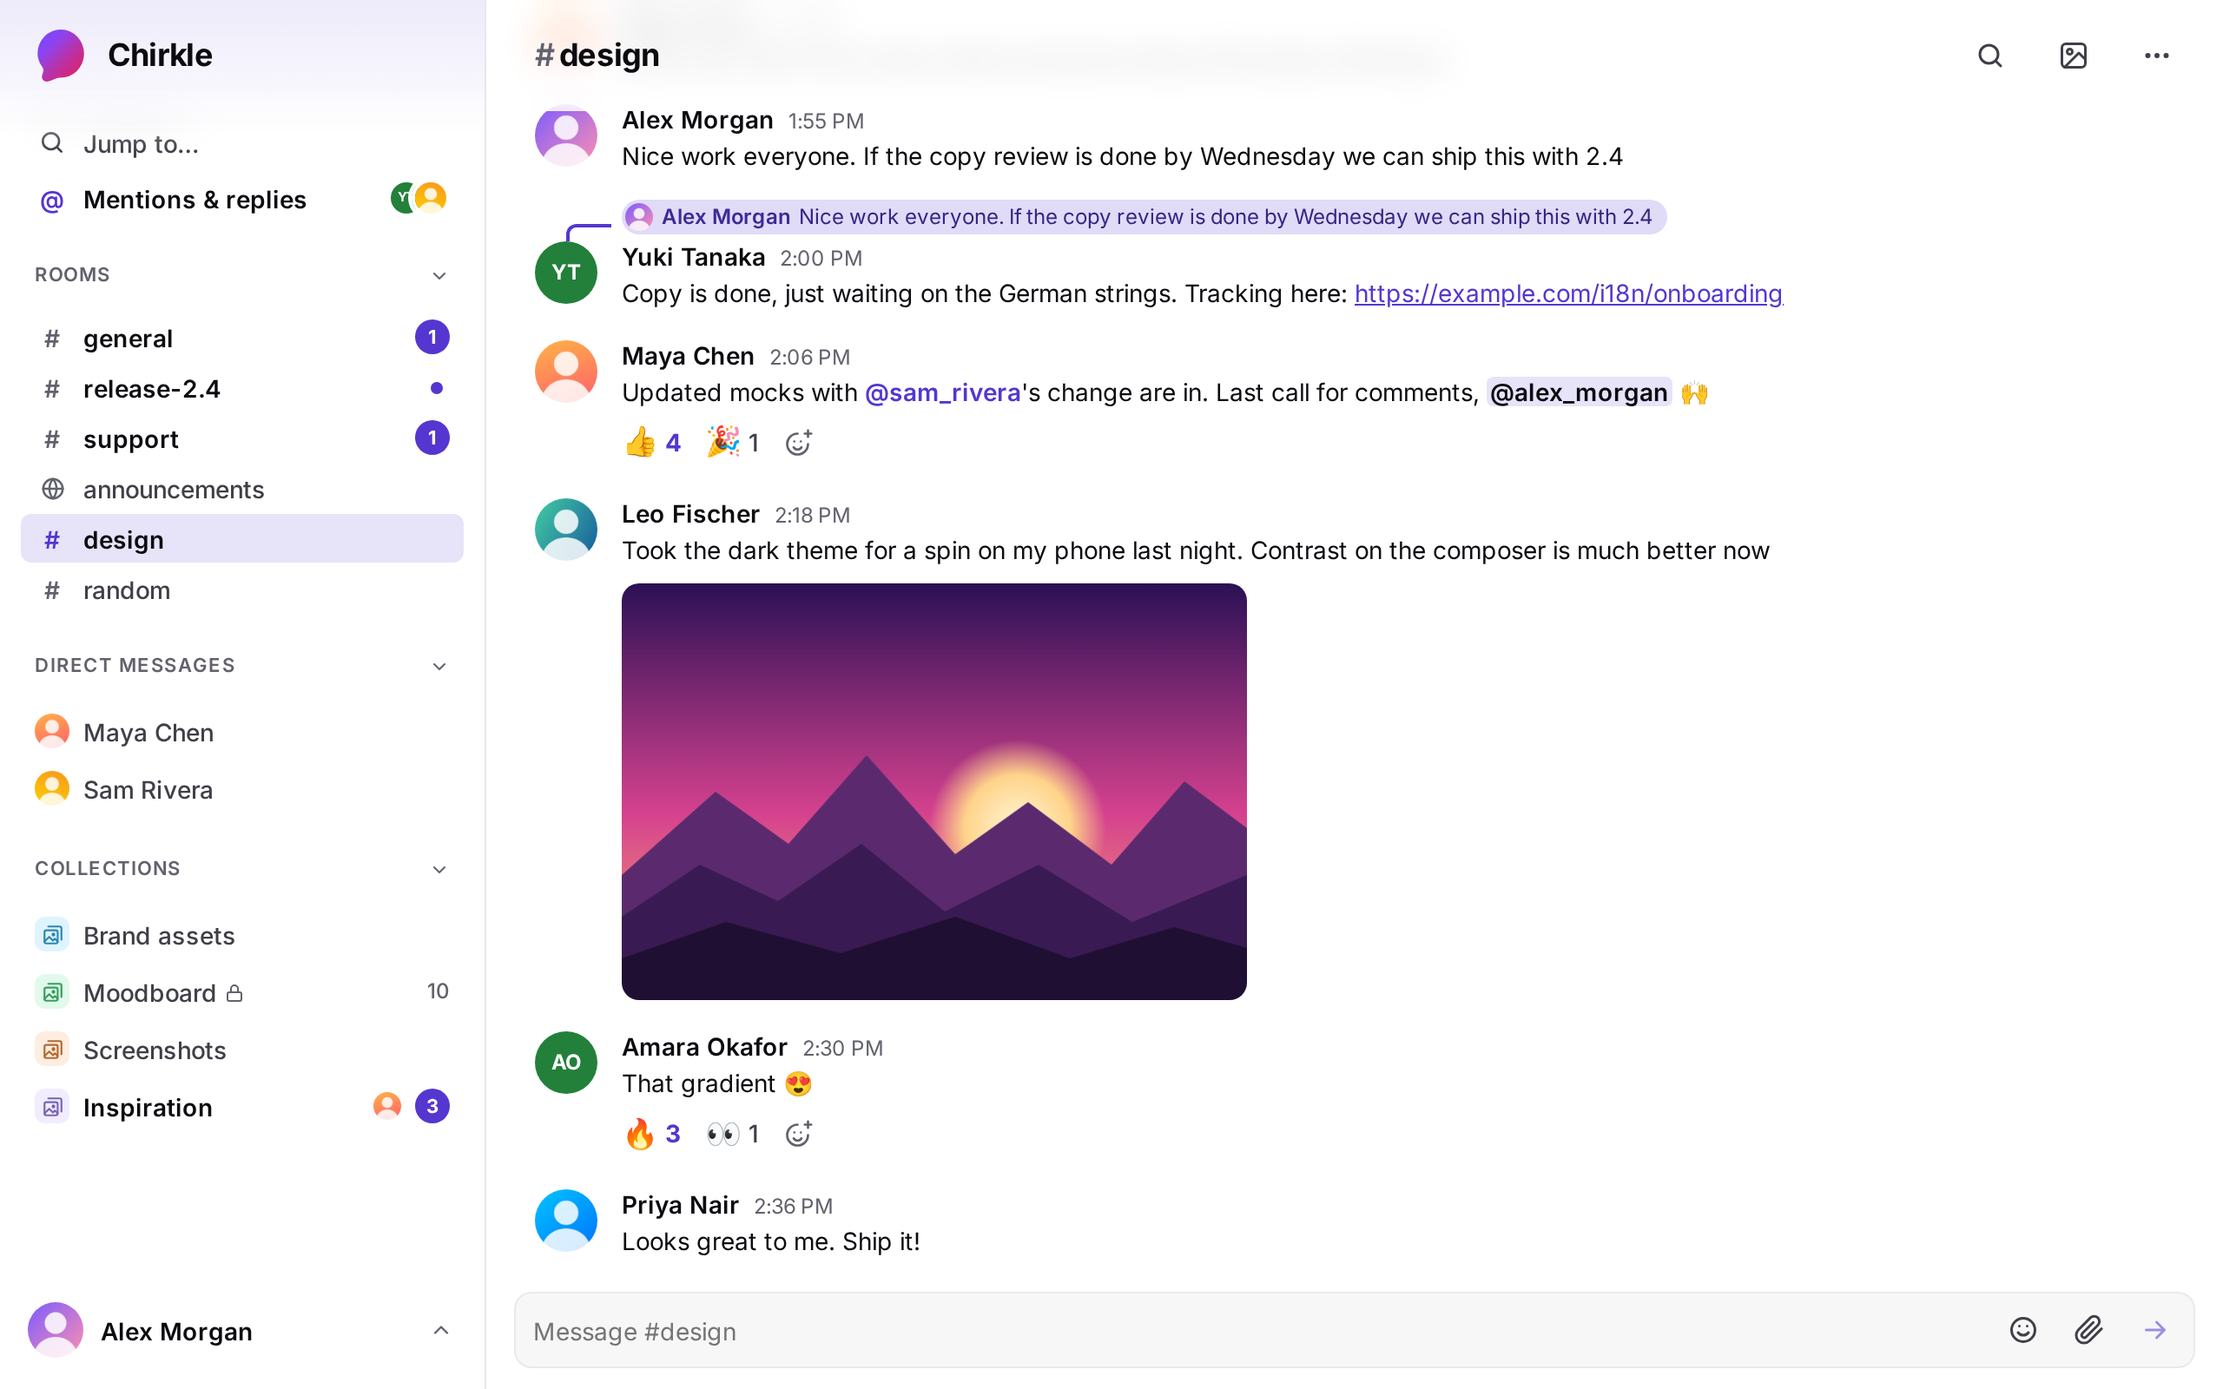
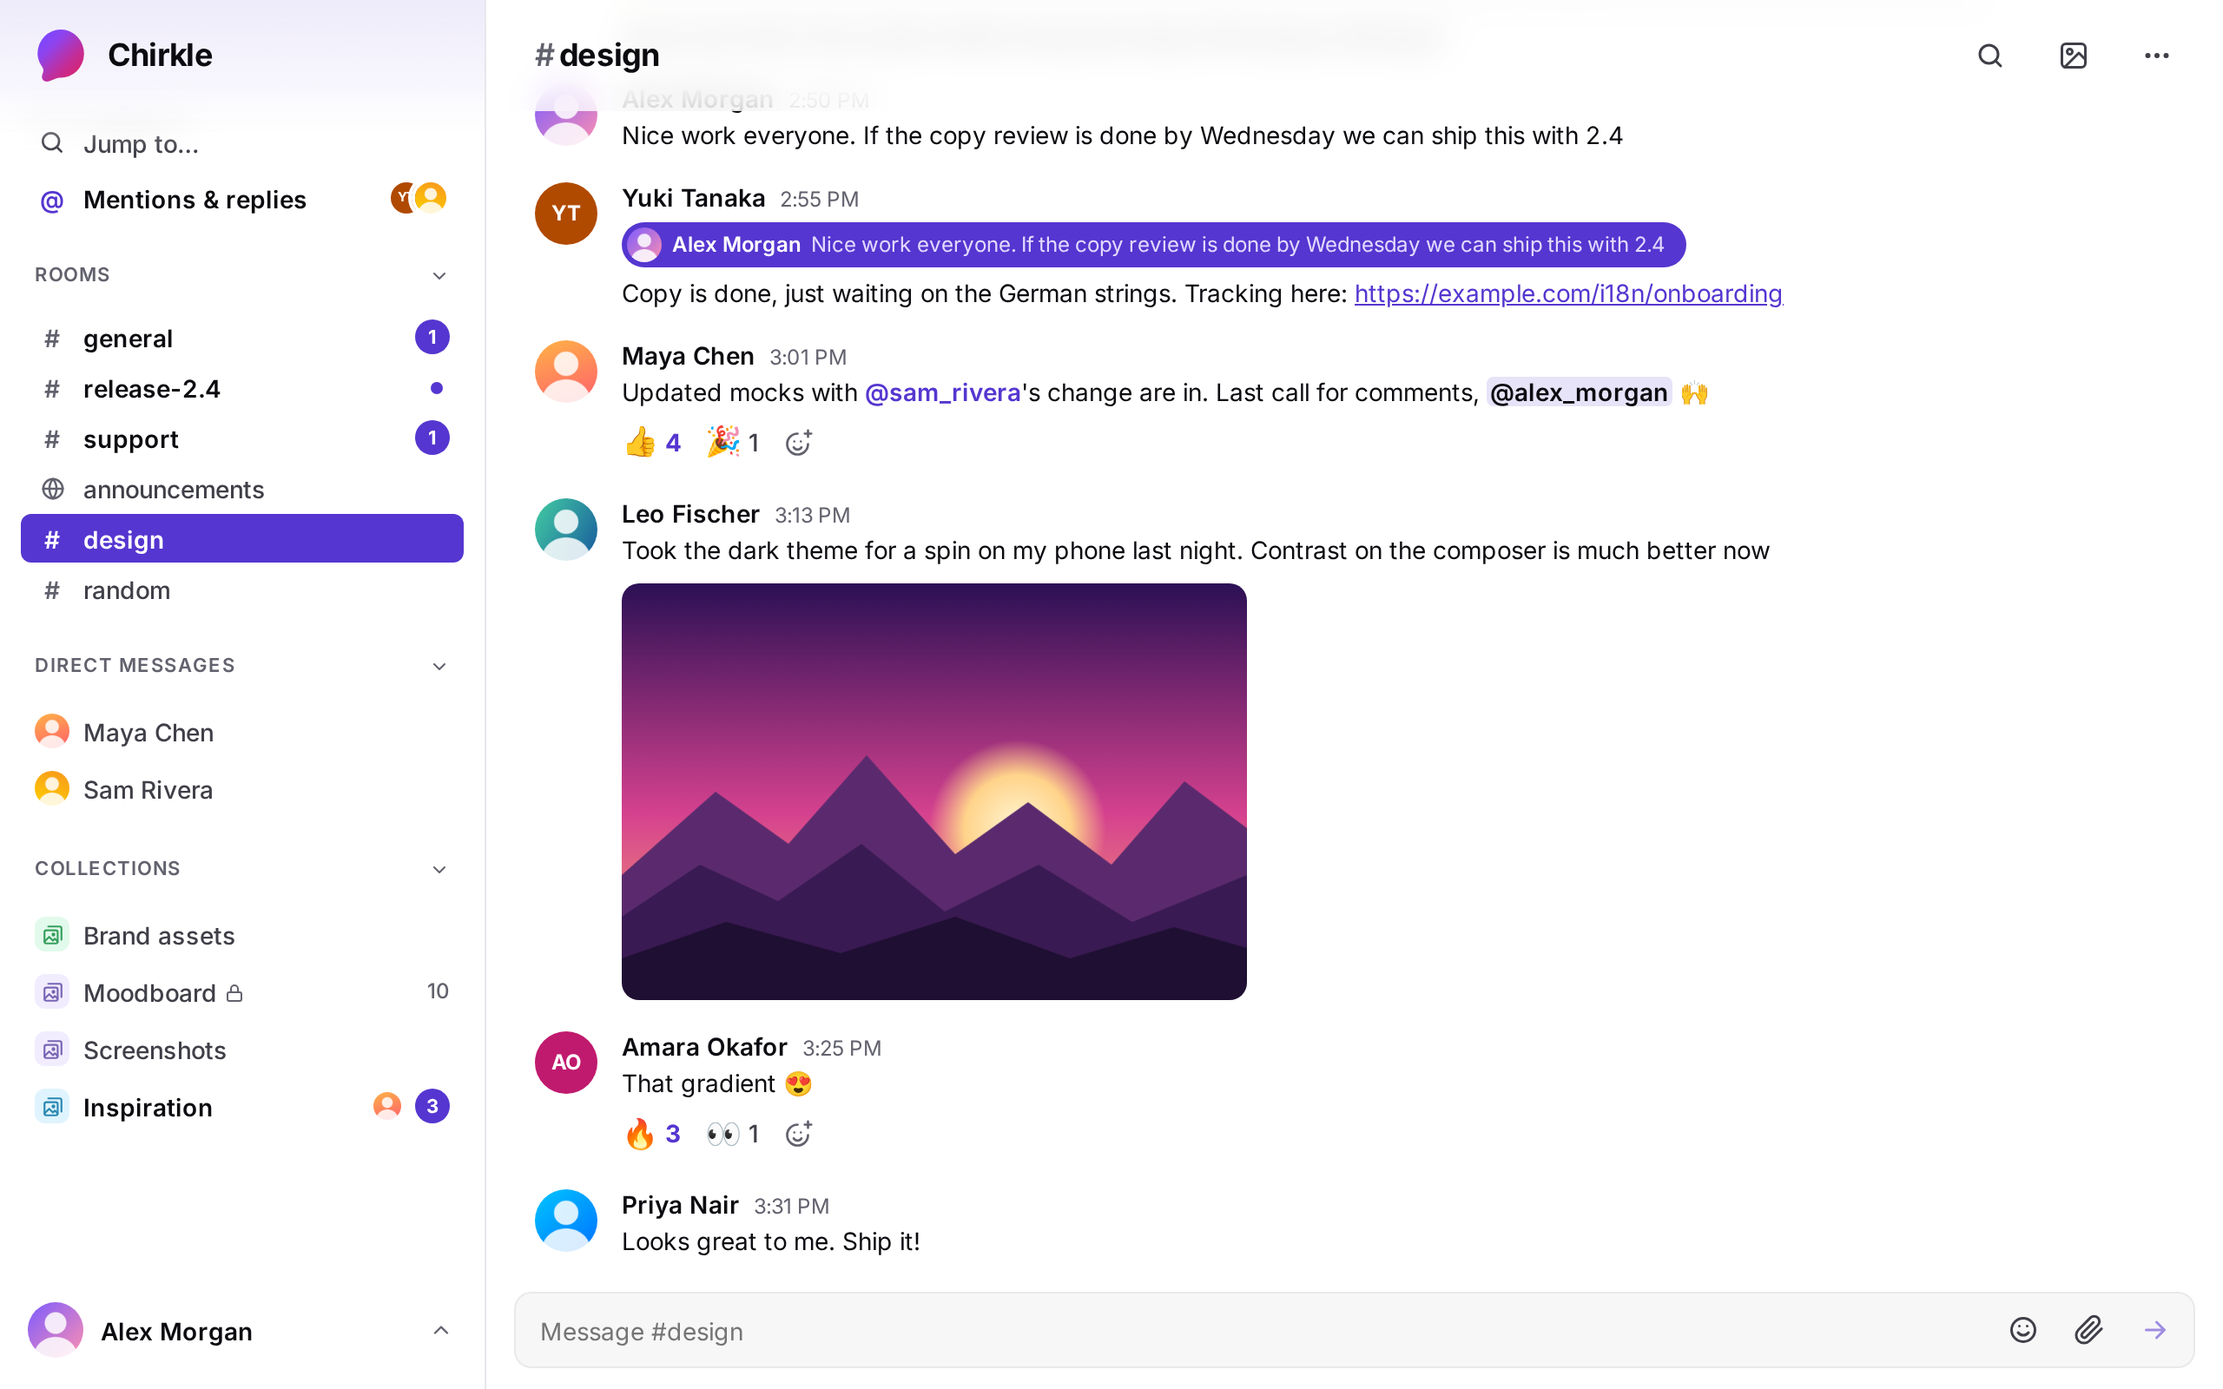
Unclickable telegram usernames, update sidebar and reply colors

diff --git a/web/styles/app/tokens.css b/web/styles/app/tokens.css
@@ -19,6 +19,21 @@
   --accent-2: #c42a7c;
   --grad: linear-gradient(135deg, #6a4bff, #c42a7c);
   --tint: color-mix(in srgb, var(--accent) 14%, transparent);
+  /* The sidebar's rows and the reply pills (room-list.css, replies.css). Light: the hover gray, and selected things
+     (the open room, a quote of your own words) in solid accent with white on it. Dark: wells darker than the page. */
+  --side-bg: var(--surface);
+  --row-hover: var(--hover);
+  --row-on: var(--fill);
+  --row-on-fg: var(--on-fill);
+  --row-on-icon: var(--on-fill);
+  --row-on-badge: var(--on-fill);
+  --row-on-badge-fg: var(--fill);
+  --quote: var(--hover);
+  --quote-hover: color-mix(in srgb, var(--fg) 10%, var(--bg));
+  --quote-mine: var(--fill);
+  --quote-mine-hover: color-mix(in srgb, var(--fill) 88%, #000);
+  --quote-mine-author: var(--on-fill);
+  --quote-mine-text: #e2dbff; /* 5.6:1 on the fill */
   /* Frosted glass (the room view redesign): the header, the scroll button and the message box, over the messages that
      scroll under them. */
   --glass: color-mix(in srgb, var(--bg) 72%, transparent);
@@ -67,6 +82,20 @@
     --new: #f9a8d4;
     --highlight: #3d3314;
     --shadow: 0 0.75rem 2rem rgb(0 0 0 / 45%);
+    /* The sidebar on the room's own background, so its wells show (light: tokens in :root). */
+    --side-bg: var(--bg);
+    --row-hover: rgb(0 0 0 / 25%);
+    --row-on: rgb(0 0 0 / 45%);
+    --row-on-fg: var(--fg);
+    --row-on-icon: var(--accent);
+    --row-on-badge: var(--fill);
+    --row-on-badge-fg: var(--on-fill);
+    --quote: rgb(0 0 0 / 25%);
+    --quote-hover: rgb(0 0 0 / 40%);
+    --quote-mine: color-mix(in srgb, var(--fill) 18%, var(--bg));
+    --quote-mine-hover: color-mix(in srgb, var(--fill) 26%, var(--bg));
+    --quote-mine-author: color-mix(in srgb, var(--accent) 70%, var(--fg));
+    --quote-mine-text: var(--text);
   }
 }
 
@@ -93,4 +122,18 @@
   --new: #f9a8d4;
   --highlight: #3d3314;
   --shadow: 0 0.75rem 2rem rgb(0 0 0 / 45%);
+  /* The sidebar on the room's own background, so its wells show (light: tokens in :root). */
+  --side-bg: var(--bg);
+  --row-hover: rgb(0 0 0 / 25%);
+  --row-on: rgb(0 0 0 / 45%);
+  --row-on-fg: var(--fg);
+  --row-on-icon: var(--accent);
+  --row-on-badge: var(--fill);
+  --row-on-badge-fg: var(--on-fill);
+  --quote: rgb(0 0 0 / 25%);
+  --quote-hover: rgb(0 0 0 / 40%);
+  --quote-mine: color-mix(in srgb, var(--fill) 18%, var(--bg));
+  --quote-mine-hover: color-mix(in srgb, var(--fill) 26%, var(--bg));
+  --quote-mine-author: color-mix(in srgb, var(--accent) 70%, var(--fg));
+  --quote-mine-text: var(--text);
 }

diff --git a/android/feature/room/src/main/kotlin/chirkle/android/feature/room/RoomScreen.kt b/android/feature/room/src/main/kotlin/chirkle/android/feature/room/RoomScreen.kt
@@ -440,7 +440,9 @@ fun RoomScreen(roomId: String, msgId: String?, nav: RoomNav, incoming: Pair<Stri
 
     sheetFor?.let { m ->
         val author = m.expand?.author
-        val bannable = me?.moderator == true && author != null && m.author != me.id && m.author != m.room && author.instance.isEmpty()
+        // Not a stand-in (a Telegram sender's, a deleted account, §5.1): the server refuses to ban them.
+        val bannable = me?.moderator == true && author != null && m.author != me.id && m.author != m.room && author.instance.isEmpty() &&
+            (author.kind.isEmpty() || author.kind == "person")
         val banned by produceState<Boolean?>(null, m.id, bannable) {
             value = if (bannable) runCatching { services.api.isBanned(m.author) }.getOrNull() else null
         }
@@ -455,7 +457,7 @@ fun RoomScreen(roomId: String, msgId: String?, nav: RoomNav, incoming: Pair<Stri
             if (c.selectable(m)) add(MenuItem(stringResource(R.string.room_select), ChirkleIcons.Check) { sheetFor = null; vm.toggleSelect(m) })
             if (c.deletable(m)) add(MenuItem(stringResource(R.string.room_delete), ChirkleIcons.Delete, danger = true) { sheetFor = null; confirmDelete = listOf(m.id) })
             // A moderator bans this instance's people, those who take no DMs too (QA BUG-230); an anonymous room's author
-            // is the room (§35), no one to ban. The server refuses a Telegram stand-in, and says so.
+            // is the room (§35), no one to ban; nor is a stand-in (bannable).
             val name = author?.name.orEmpty()
             when (banned) {
                 false -> add(MenuItem(stringResource(R.string.room_ban_2, name), ChirkleIcons.Lock, danger = true) { sheetFor = null; banning = m.author to name })

diff --git a/web/styles/app/replies.css b/web/styles/app/replies.css
@@ -13,7 +13,7 @@
   padding: 0 0.75rem 0 3px;
   border: 0;
   border-radius: var(--pill);
-  background: var(--hover);
+  background: var(--quote);
   color: var(--dim);
   /* Two pixels under the message text (12px to its 14, 13 to 15 on a phone), as the reply redesign has it. */
   font-size: calc(1em - 2px);
@@ -33,7 +33,7 @@
 
 @media (hover: hover) {
   .reply-quote:hover {
-    background: color-mix(in srgb, var(--fg) 10%, var(--bg));
+    background: var(--quote-hover);
     color: var(--fg);
   }
 }
@@ -87,19 +87,23 @@
 /* Your own words quoted: on the accent's tint, your name in the accent (toward the text colour: the accent alone was
    under 4.5:1 on the tint in the light theme); the message itself stays clean (messages.css). */
 .reply-quote.mine {
-  background: color-mix(in srgb, var(--fill) 18%, var(--bg));
-  color: var(--text);
+  background: var(--quote-mine);
+  color: var(--quote-mine-text);
 }
 
 .reply-quote.mine .reply-author {
   flex-shrink: 0;
   max-width: 40%;
-  color: color-mix(in srgb, var(--accent) 70%, var(--fg));
+  color: var(--quote-mine-author);
+}
+
+.reply-quote.mine:hover {
+  color: var(--quote-mine-text);
 }
 
 @media (hover: hover) {
   .reply-quote.mine:hover {
-    background: color-mix(in srgb, var(--fill) 26%, var(--bg));
+    background: var(--quote-mine-hover);
   }
 }
 
@@ -183,7 +187,10 @@
   font-weight: 600;
 }
 
-.room-section[data-section="inbox"] a.unread::before,
-.room-section[data-section="inbox"] a[aria-current="page"]::before {
+.room-section[data-section="inbox"] a.unread::before {
   color: var(--accent);
+}
+
+.room-section[data-section="inbox"] a[aria-current="page"]::before {
+  color: var(--row-on-icon);
 }

diff --git a/tests/integration/users.test.ts b/tests/integration/users.test.ts
@@ -74,12 +74,13 @@ describe("users rules (§5.5)", () => {
     await expectRejected(a.pb.collection("users").update(a.user.id, { emailVisibility: true }));
   });
 
-  it("a signup is a person; nobody says otherwise of their own account, and clients never see the kind (REFACTOR item 50)", async () => {
+  it("a signup is a person; nobody says otherwise of their own account, and clients see the kind (REFACTOR item 50, migration 58)", async () => {
     const a = await newUser();
-    expect(a.user).not.toHaveProperty("kind");
+    // Public since migration 58, so the apps offer no Ban on a stand-in (§36.4).
+    expect(a.user.kind).toBe("person");
     const admin = await adminClient();
     expect((await admin.collection("users").getOne(a.user.id)).kind).toBe("person");
-    // Refused, or the hidden field ignored: either way the account stays a person.
+    // Refused (the update rule fails: 404), or ignored: either way the account stays a person.
     const said = await a.pb
       .collection("users")
       .update(a.user.id, { kind: "telegram" })
@@ -87,7 +88,7 @@ describe("users rules (§5.5)", () => {
         () => 200,
         (err: { status: number }) => err.status,
       );
-    expect([200, 400, 403]).toContain(said);
+    expect([200, 400, 403, 404]).toContain(said);
     expect((await admin.collection("users").getOne(a.user.id)).kind).toBe("person");
     const email = `${uniq()}@test.local`;
     await client()

diff --git a/web/styles/app/room-list.css b/web/styles/app/room-list.css
@@ -138,7 +138,7 @@
 
 @media (hover: hover) {
   .room-section li:hover {
-    background: var(--hover);
+    background: var(--row-hover);
   }
 }
 
@@ -173,7 +173,7 @@
 }
 
 .room-section li a[aria-current="page"] > .lead {
-  color: var(--accent);
+  color: var(--row-on-icon);
 }
 
 .more-body li a {
@@ -235,7 +235,7 @@
   width: 1.125rem;
   height: 1.125rem;
   font-size: 0.4688rem;
-  box-shadow: 0 0 0 2px var(--surface);
+  box-shadow: 0 0 0 2px var(--side-bg);
 }
 
 .faces > .avatar + .avatar {
@@ -248,12 +248,31 @@
 }
 
 .room-section li a[aria-current="page"] {
-  color: var(--fg);
+  color: var(--row-on-fg);
   font-weight: 600;
 }
 
+/* The open room: solid accent in the light theme, the deeper well in the dark (tokens.css); hovering it changes nothing. */
 .room-section li:has(a[aria-current="page"]) {
-  background: var(--tint);
+  background: var(--row-on);
+}
+
+.room-section li a[aria-current="page"] > .vis,
+.room-section li a[aria-current="page"] > span > .vis {
+  color: var(--row-on-icon);
+}
+
+.room-section li a[aria-current="page"] > .dot {
+  background: var(--row-on-icon);
+}
+
+.room-section li a[aria-current="page"] > .badge {
+  background: var(--row-on-badge);
+  color: var(--row-on-badge-fg);
+}
+
+.room-section li:has(a[aria-current="page"]) .faces > .avatar {
+  box-shadow: 0 0 0 2px var(--row-on);
 }
 
 /* Private and Open Air (§23.1). */

diff --git a/tests/component/views/room/moderators.test.ts b/tests/component/views/room/moderators.test.ts
@@ -96,6 +96,19 @@ describe("moderators in the room view (§36)", () => {
     await vi.waitFor(async () => expect(await me.api.isBanned(other.user.id)).toBe(true));
   });
 
+  it("a Telegram stand-in's name (or a deleted account's) is plain: no menu with a Ban the server refuses", async () => {
+    const other = await signedUp("Tg Person (TG)");
+    const room = await newRoom(other);
+    const m = await other.api.send({ id: newId(), room: room.id, text: "hi" });
+    await runSql(inject("pbUrl"), [
+      { sql: "UPDATE users SET no_dms = 1, kind = 'telegram' WHERE id = {:id}", params: { id: other.user.id } },
+    ]);
+    await makeModerator();
+    await mount(room);
+    await vi.waitFor(() => expect(msgEl(m.id)!.querySelector(".author")?.textContent).toBe("Tg Person (TG)"));
+    expect(root().querySelector("details.author-menu, button.author")).toBeNull();
+  });
+
   it("QA: delete their own message where they can't post (by the delete route)", async () => {
     const other = await signedUp("Other");
     const room = await newRoom(other);

diff --git a/web/src/views/room/messages.ts b/web/src/views/room/messages.ts
@@ -713,8 +713,10 @@ export function createMessageList(opts: {
       const title = where ? `${S.messageName(author.name)} · ${where}` : S.messageName(author.name);
       return h("button", { type: "button", class: "author", title, dataset: { act: "dm", user: author.id } }, author.name);
     }
-    // This instance's people only (§36); an anonymous room's author is the room (§35), no one to ban.
-    if (!me.moderator || author.instance || author.id === room) return plain();
+    // This instance's people only (§36), not a stand-in (a Telegram sender's, a deleted account: the server refuses to
+    // ban them, so the menu would be Ban that fails); an anonymous room's author is the room (§35), no one to ban.
+    const standIn = !!author.kind && author.kind !== "person";
+    if (!me.moderator || author.instance || standIn || author.id === room) return plain();
     return h("details", { class: "menu author-menu", dataset: { user: author.id } }, [
       h("summary", { class: "author" }, author.name),
       h("div", { class: "menu-items" }),

diff --git a/web/src/api.ts b/web/src/api.ts
@@ -274,7 +274,7 @@ export const reasonOf = (err: unknown): string => (err instanceof ApiError && Ob
 
 /** Only what the UI renders; never user emails (§6). */
 export const MSG_FIELDS =
-  "id,room,text,created,updated,edited_at,deleted,files,file_names,file_sources,file_dims,reactions,previews,author,expand.author.id,expand.author.name,expand.author.avatar,expand.author.no_dms,expand.author.instance," +
+  "id,room,text,created,updated,edited_at,deleted,files,file_names,file_sources,file_dims,reactions,previews,author,expand.author.id,expand.author.name,expand.author.avatar,expand.author.no_dms,expand.author.instance,expand.author.kind," +
   "reply_to,expand.reply_to.id,expand.reply_to.author,expand.reply_to.text,expand.reply_to.deleted,expand.reply_to.files," +
   "expand.reply_to.expand.author.id,expand.reply_to.expand.author.name,expand.reply_to.expand.author.avatar," +
   "forwarded_from,forward_of,expand.forwarded_from.id,expand.forwarded_from.name,mentions";

diff --git a/android/core/data/src/main/kotlin/chirkle/android/data/api/ChirkleApi.kt b/android/core/data/src/main/kotlin/chirkle/android/data/api/ChirkleApi.kt
@@ -57,7 +57,7 @@ import okhttp3.HttpUrl
 
 /** Only what the UI renders; never user emails (§6). The web's MSG_FIELDS. */
 const val MSG_FIELDS =
-    "id,room,text,created,updated,edited_at,deleted,files,file_names,file_sources,file_dims,reactions,previews,author,expand.author.id,expand.author.name,expand.author.avatar,expand.author.no_dms,expand.author.instance," +
+    "id,room,text,created,updated,edited_at,deleted,files,file_names,file_sources,file_dims,reactions,previews,author,expand.author.id,expand.author.name,expand.author.avatar,expand.author.no_dms,expand.author.instance,expand.author.kind," +
         "reply_to,expand.reply_to.id,expand.reply_to.author,expand.reply_to.text,expand.reply_to.deleted,expand.reply_to.files," +
         "expand.reply_to.expand.author.id,expand.reply_to.expand.author.name,expand.reply_to.expand.author.avatar," +
         "forwarded_from,forward_of,expand.forwarded_from.id,expand.forwarded_from.name,mentions"

diff --git a/pb_migrations/1760000058_users_kind_public.js b/pb_migrations/1760000058_users_kind_public.js
@@ -1,0 +1,20 @@
+/// <reference path="../types/pocketbase.d.ts" />
+// What kind of account a user is, said to clients (DESIGN.md §5.1, 2026-11-25, user: "clicking on telegram user names
+// should do nothing, not show dropdown with "ban" as only option"): `users.kind` is no longer hidden, so the apps can
+// tell a stand-in (a Telegram sender's, a deleted account) from a person who takes no DMs, and offer no Ban on it (the
+// server refuses one, §36). Still set by hooks only (the create/update rules of migration 51).
+
+migrate(
+  (app) => {
+    const users = app.findCollectionByNameOrId("users");
+    const kind = users.fields.getByName("kind");
+    if (kind) kind.hidden = false;
+    app.save(users);
+  },
+  (app) => {
+    const users = app.findCollectionByNameOrId("users");
+    const kind = users.fields.getByName("kind");
+    if (kind) kind.hidden = true;
+    app.save(users);
+  },
+);

diff --git a/web/src/lib/types.ts b/web/src/lib/types.ts
@@ -13,6 +13,11 @@ export interface User {
   moderator?: boolean;
   /** What "@handle" names (§41), without the "@"; absent where the server doesn't say. */
   handle?: string;
+  /**
+   * What kind of account (§5.1): "person" signs in here; the others are stand-ins (a Telegram sender's, a linked
+   * instance's person's, a deleted account) nobody can ban. Absent where the server doesn't say.
+   */
+  kind?: "person" | "telegram" | "peer" | "deleted";
 }
 
 /**

diff --git a/android/core/data/src/main/kotlin/chirkle/android/data/model/Models.kt b/android/core/data/src/main/kotlin/chirkle/android/data/model/Models.kt
@@ -18,6 +18,11 @@ data class User(
     val moderator: Boolean = false,
     /** What "@handle" names (DESIGN.md §41), without the "@"; "" where the server doesn't say. */
     val handle: String = "",
+    /**
+     * What kind of account (DESIGN.md §5.1): "person" signs in here; "telegram", "peer" and "deleted" are stand-ins
+     * nobody can ban. "" where the server doesn't say.
+     */
+    val kind: String = "",
 )
 
 /**
